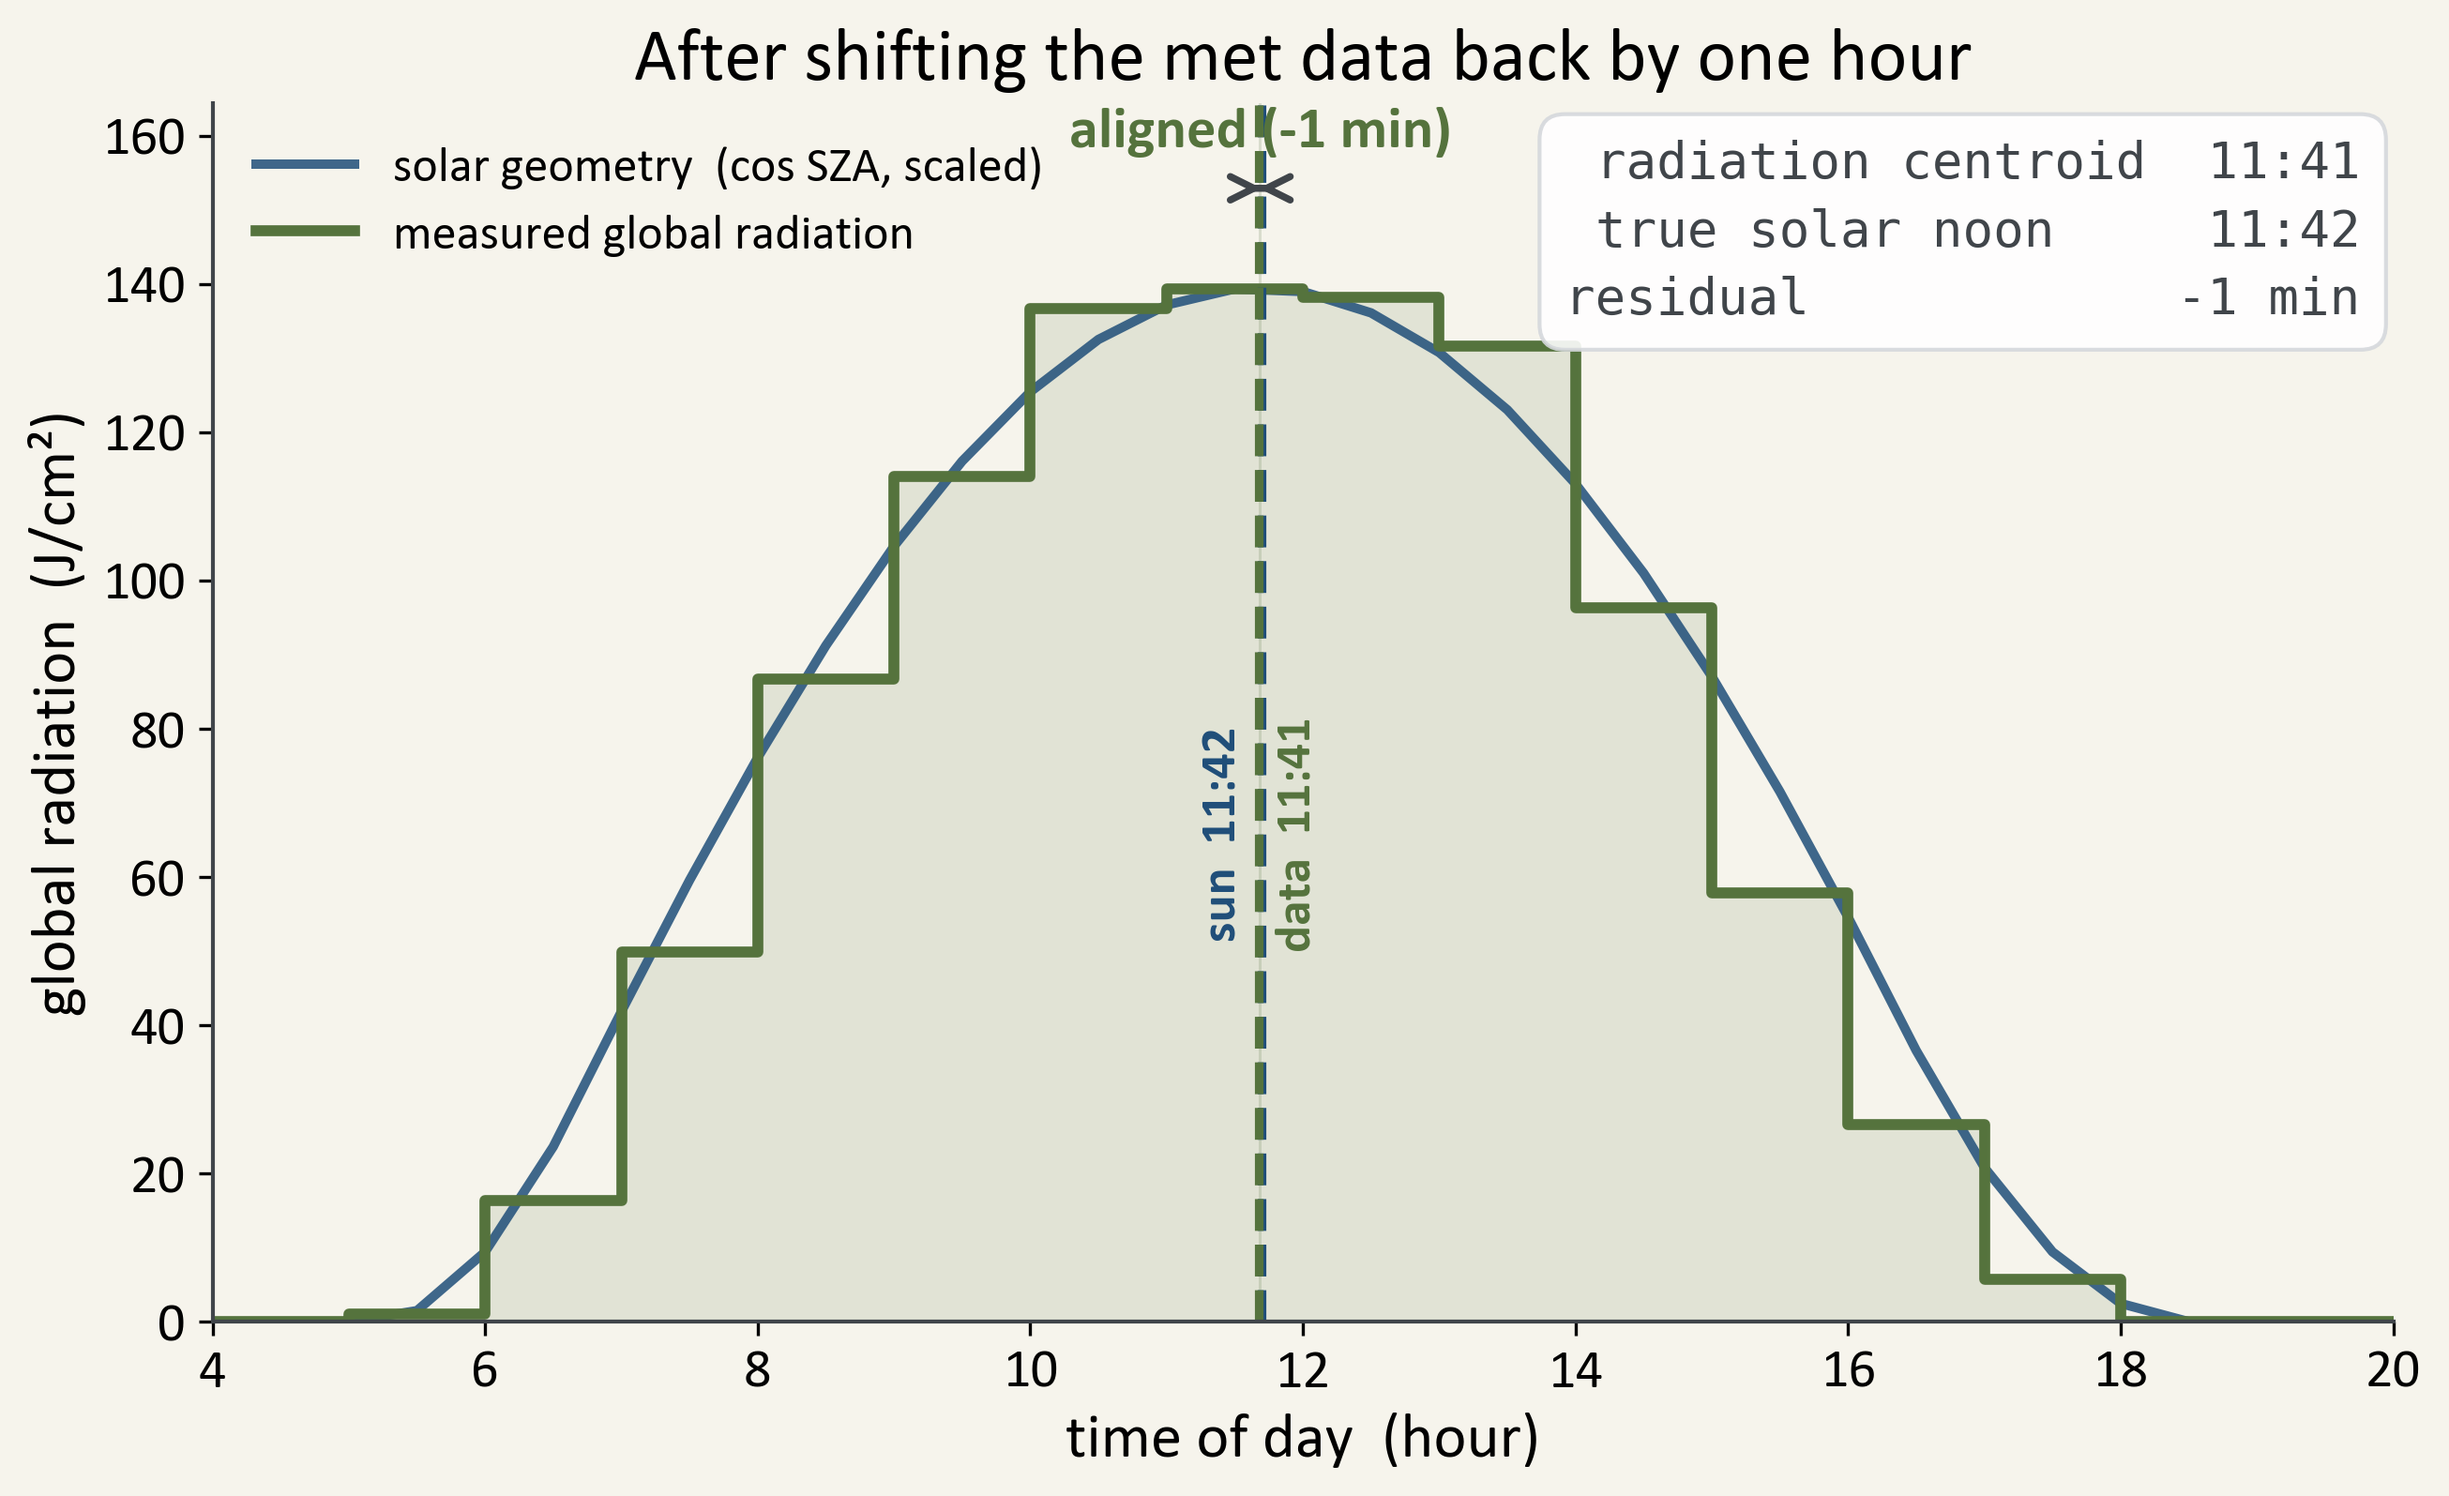
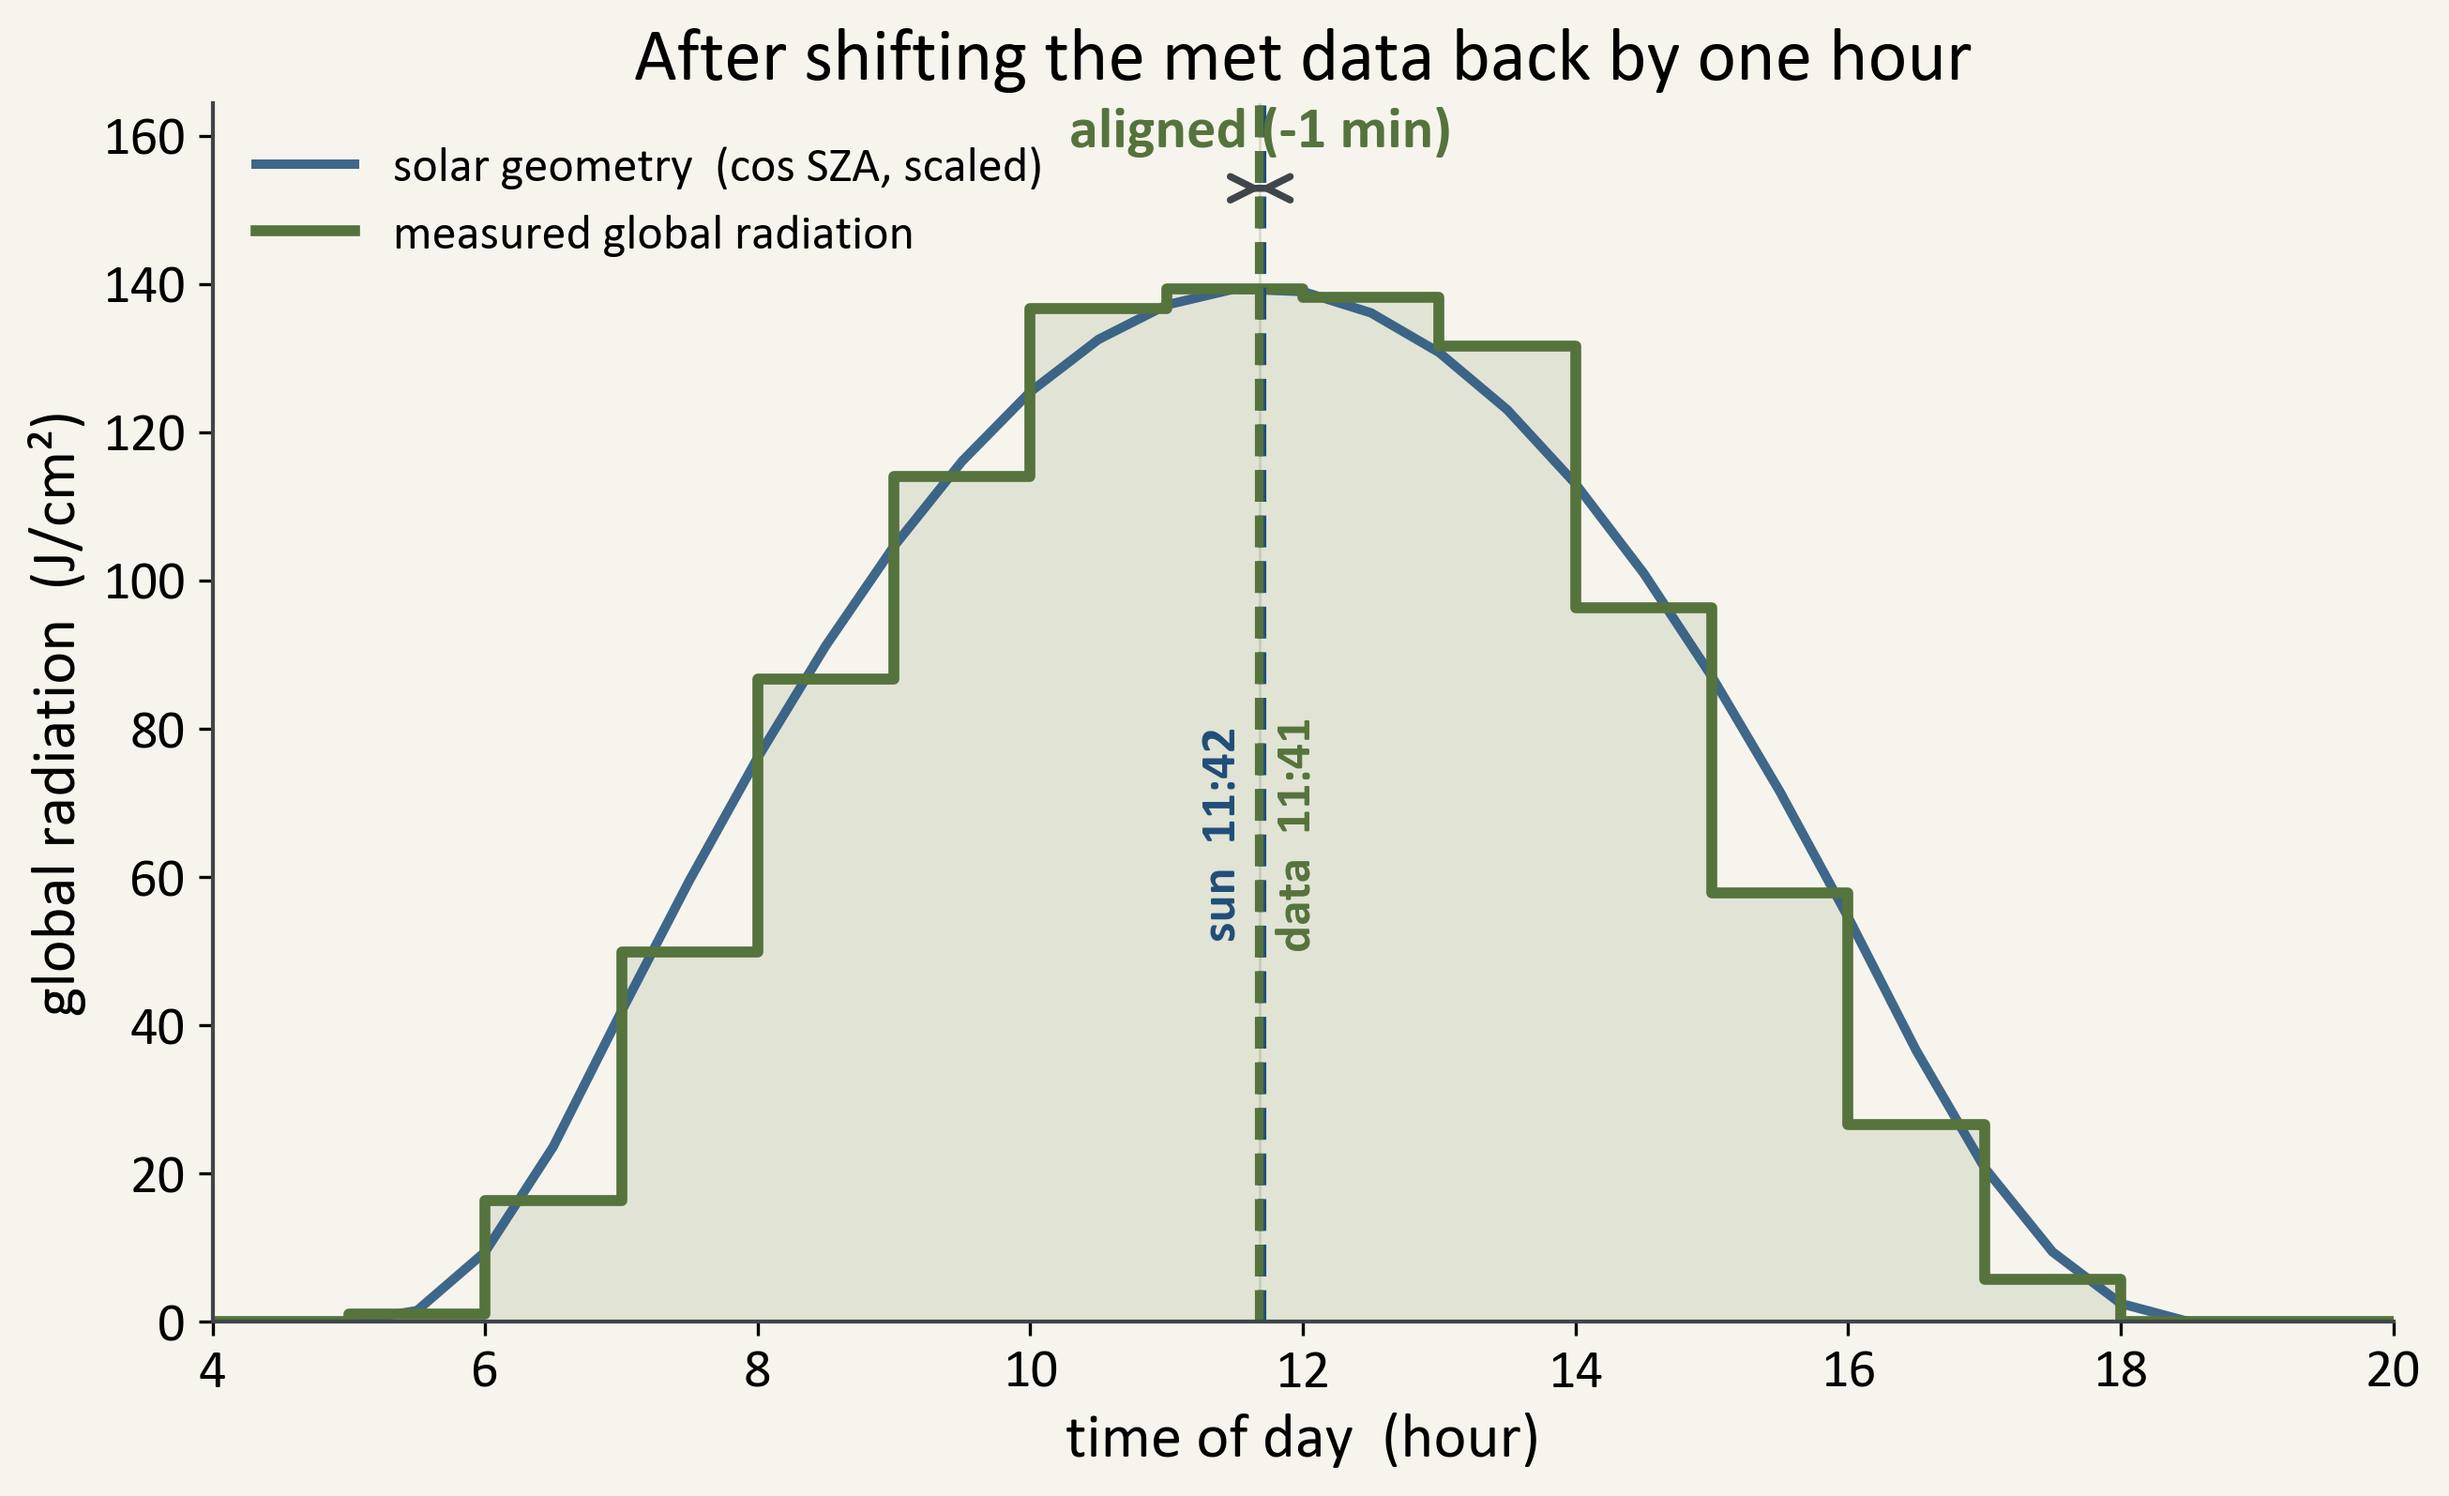
Drop the white info boxes from the radiation figures
They sat on top of the curve and repeated what the plot already shows.
The three values - radiation centroid, true solar noon, apparent lag -
are now carried by the centroid lines, their labels and the gap arrow.

In the combined figure the sun line (11:42) and the corrected line
(11:41) are one minute apart, so they coincide on screen and share a
single label: "sun 11:42 - corrected 11:41" against "as delivered
12:41". That reads better than the box did, because the overlap is
itself the point.

The `note` argument to rad_panel is kept but no longer drawn, so the
numbers stay recorded in case_study_numbers.md.

Changed region(s): [[0.6515, 0.0922, 0.8686, 0.1843], [0.6205, 0.1536, 0.7756, 0.2458], [0.8997, 0.0922, 0.9617, 0.215]]

diff --git a/prep/scripts/make_figures.py b/prep/scripts/make_figures.py
@@ -374,9 +374,9 @@ def rad_panel(profile, title, note, fname, mark_correct=False):
     ax.set_xticks(range(4, 21, 2))
     ax.set_xlim(4, 20)
     ax.legend(loc="upper left", fontsize=12.5, framealpha=.9)
-    ax.text(.985, .97, note, transform=ax.transAxes, va="top", ha="right",
-            fontsize=13, color="#40454A", linespacing=1.5, family="monospace",
-            bbox=dict(boxstyle="round,pad=0.5", fc="white", ec="#D5D8DC", alpha=.9))
+    # `note` is deliberately not drawn: the centroid lines, their labels and the
+    # gap arrow already carry those three numbers, and a white box sat on top of
+    # the curve. Kept as a parameter so the values stay in case_study_numbers.md.
     save(fig, fname)
 
 
@@ -408,14 +408,16 @@ def rad_panel_both(prof_raw, prof_fixed, fname):
     ax.text((geo_centroid + c_raw) / 2, top * .805,
             f"{(c_raw - geo_centroid) * 60:+.0f} min", ha="center", va="bottom",
             fontsize=16, fontweight="bold", color=ORANGE)
-    # centroid times in a compact box - drawn under the axis they overlapped
-    ax.text(.985, .97,
-            f"{'sun':<14}{fmt(geo_centroid)}\n"
-            f"{'as delivered':<14}{fmt(c_raw)}   {(c_raw - geo_centroid) * 60:+.0f} min\n"
-            f"{'corrected':<14}{fmt(c_fix)}   {(c_fix - geo_centroid) * 60:+.0f} min",
-            transform=ax.transAxes, va="top", ha="right", fontsize=13,
-            family="monospace", color="#40454A", linespacing=1.55,
-            bbox=dict(boxstyle="round,pad=0.5", fc="white", ec="#D5D8DC", alpha=.92))
+    # Labels go on the lines themselves - no white box, which covered the curve
+    # and repeated what the lines already show. The sun and the corrected
+    # centroid are 1 min apart, so their lines coincide and share one label.
+    ax.text(geo_centroid - .16, top * .42,
+            f"sun {fmt(geo_centroid)}  ·  corrected {fmt(c_fix)}",
+            color=NAVY, rotation=90, va="center", ha="right", fontsize=13,
+            fontweight="bold")
+    ax.text(c_raw + .16, top * .42, f"as delivered {fmt(c_raw)}",
+            color=ORANGE, rotation=90, va="center", ha="left", fontsize=13,
+            fontweight="bold")
 
     ax.set_xlabel("time of day  (hour)")
     ax.set_ylabel("global radiation  (J/cm²)")
